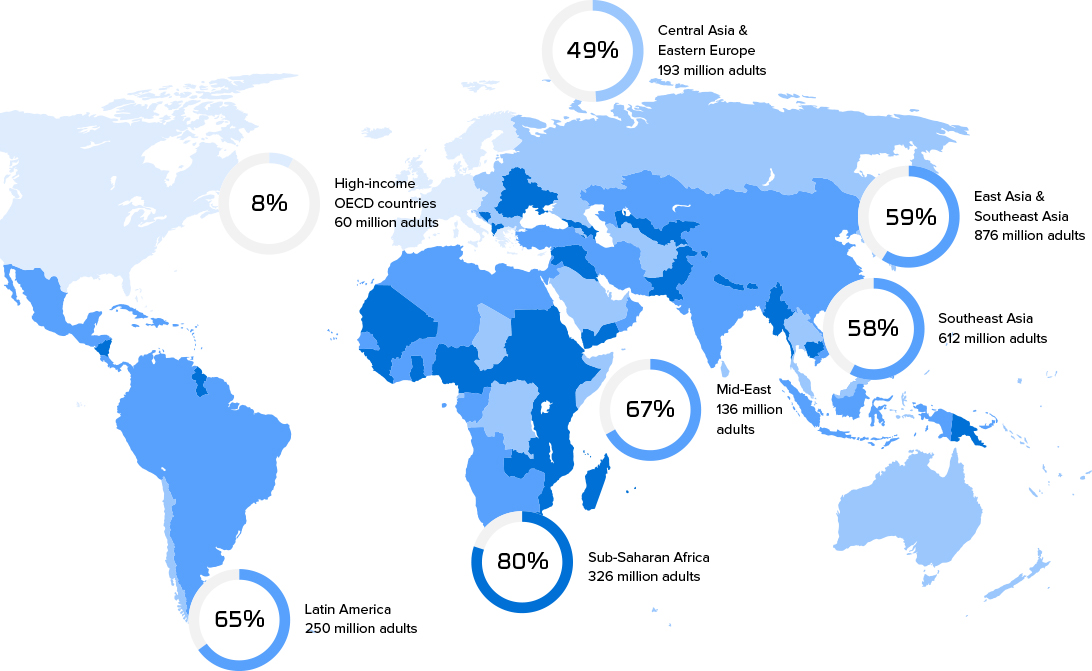
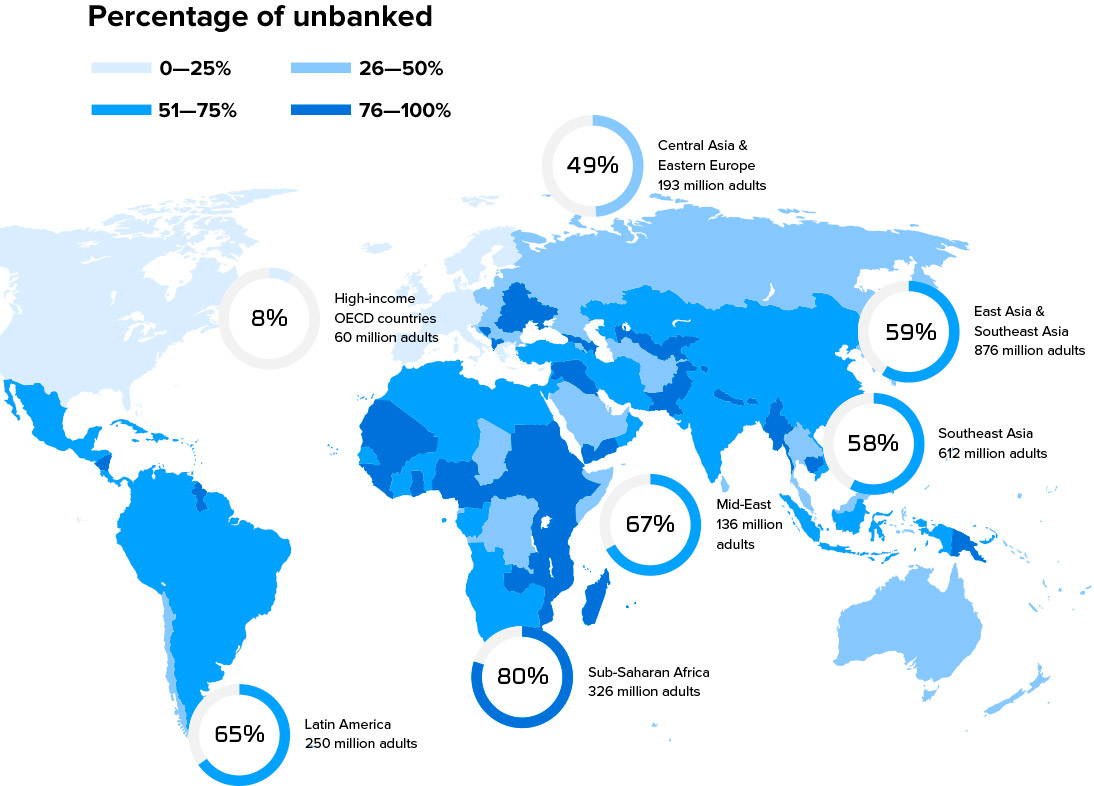
[update] new map added to section 3

diff --git a/src/components/pages/Home/sections/UnbankedStatSection/styles.scss b/src/components/pages/Home/sections/UnbankedStatSection/styles.scss
@@ -4,7 +4,7 @@
 .se-home-unbanked-stat {
 
   &__left-side {
-    flex: 0 0 52%;
+    flex: 0 0 53%;
   }
 
   &__right-side {
@@ -25,9 +25,8 @@
     height: 100%;
     background-image: url('/img/design-v2/sections/unbanked-stat/perspective-map.jpg');
     background-repeat: no-repeat;
-    background-size: 95%;
-    background-position: 5px 250px;
-    font-size: 0;
+    background-size: 100%;
+    background-position: 0 160px;
   }
 
   &__text {
